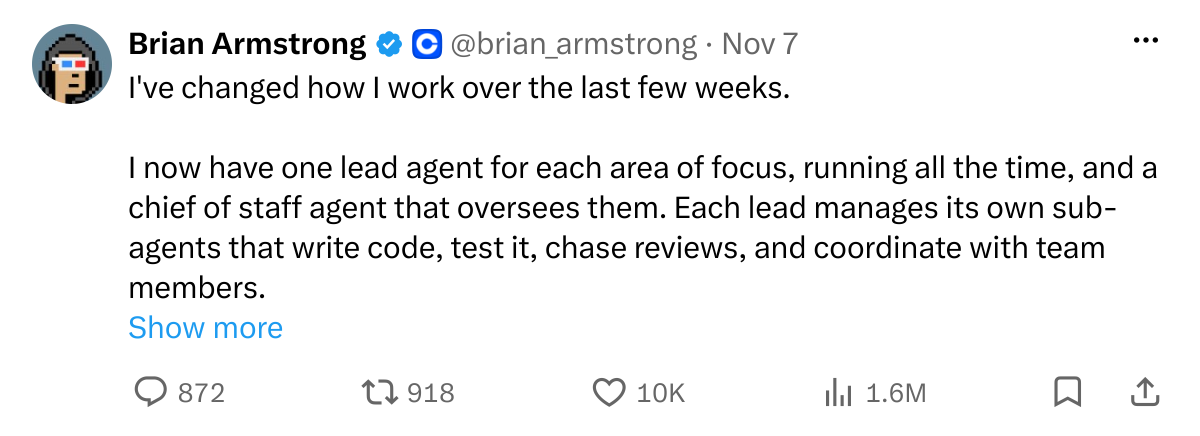
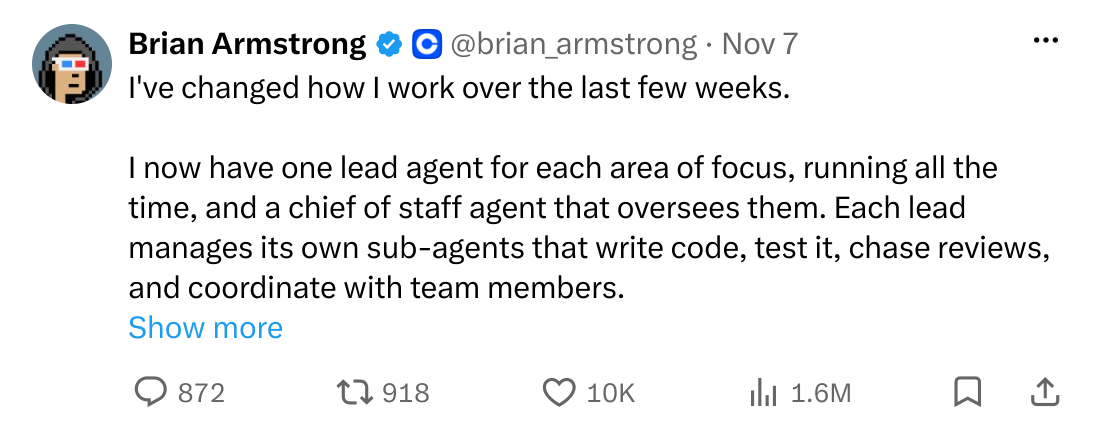
blog: méta-agent, qui sont Brian Armstrong et Chris Tate, tweets cliquables en carte
Une image en lien ([![…](img)](url)) devient une carte de 550 px,
la taille d'un post X intégré.

diff --git a/app/components/Markdown.tsx b/app/components/Markdown.tsx
@@ -39,12 +39,26 @@ function isSafeHref(href: string): boolean {
   return /^(https?:\/\/|mailto:|\/|#)/.test(href);
 }
 
+type HastNode = { type: string; tagName?: string; children?: HastNode[] };
+
+function onlyChild(node?: HastNode): HastNode | null {
+  return node?.children?.length === 1 ? node.children[0] : null;
+}
+
+function isTag(node: HastNode | null, tagName: string): boolean {
+  return node?.type === "element" && node.tagName === tagName;
+}
+
+/** `[![alt](post.png)](https://x.com/…)`: an image that links somewhere. */
+function isLinkedImage(node: HastNode | null): boolean {
+  return isTag(node, "a") && isTag(onlyChild(node ?? undefined), "img");
+}
+
 const components: Components = {
-  // An image on its own line is a figure, not a paragraph.
+  // An image on its own line is a figure, not a paragraph, linked or not.
   p: ({ node, children }) => {
-    const only = node?.children.length === 1 ? node.children[0] : null;
-    if (only?.type === "element" && only.tagName === "img")
-      return <>{children}</>;
+    const only = onlyChild(node);
+    if (isTag(only, "img") || isLinkedImage(only)) return <>{children}</>;
     return <p className="text-base leading-relaxed text-muted">{children}</p>;
   },
   h1: ({ children }) => (
@@ -69,7 +83,20 @@ const components: Components = {
     <ol className="list-decimal space-y-2 pl-6">{children}</ol>
   ),
   li: ({ children }) => <li className="text-base text-muted">{children}</li>,
-  a: ({ href = "", children }) => {
+  a: ({ node, href = "", children }) => {
+    // A linked image is a card, the size of an embedded X post.
+    if (isLinkedImage(node ?? null)) {
+      return (
+        <a
+          href={isSafeHref(href) ? href : "#"}
+          className="mx-auto block max-w-[550px] [&_img]:rounded-xl [&_img]:border [&_img]:border-hair [&_img]:shadow-sm [&_img]:transition-shadow hover:[&_img]:shadow-md"
+          target="_blank"
+          rel="noopener noreferrer"
+        >
+          {children}
+        </a>
+      );
+    }
     const className = "text-blue underline underline-offset-4 hover:text-ink2";
     if (href.startsWith("/")) {
       return (

diff --git a/content/blog/un-meta-agent-pour-piloter-mes-agents-de-code/fr.md b/content/blog/un-meta-agent-pour-piloter-mes-agents-de-code/fr.md
@@ -9,11 +9,11 @@ excerpt: "Avec huit sessions d'agents ouvertes, mon problème n'est pas de les l
 
 Avec l'agentic engineering, j'ai beaucoup de mal à garder en tête tout ce que je fais. J'ai à peu près huit sessions d'agents ouvertes en même temps, chacune dans son worktree, et la charge mentale monte vite : savoir sur quoi je travaille d'un jour sur l'autre, ou simplement après la pause de midi, quand je reprends et que je suis perdu. Le problème, ce n'est pas de lancer des agents, c'est de finir les tâches et de savoir enchaîner. En fait, c'est le focus, et l'orchestration.
 
-Depuis quelque temps, je voyais passer sur Twitter des gens qui ne parlaient plus qu'à un seul agent, pour se simplifier la vie ([Brian Armstrong](https://x.com/brian_armstrong/status/2119112609223827547), [Chris Tate](https://x.com/ctatedev/status/2119251380150087685)).
+Depuis quelque temps, je voyais passer sur Twitter des gens qui ne parlaient plus qu'à un seul agent, pour se simplifier la vie, comme [Brian Armstrong](https://x.com/brian_armstrong), le CEO de Coinbase, ou [Chris Tate](https://x.com/ctatedev), de Vercel Labs.
 
-![Le post de Brian Armstrong sur X : un agent principal par sujet, et un agent chief of staff qui les supervise](tweet-brian-armstrong.png)
+[![Le post de Brian Armstrong sur X : un agent principal par sujet, et un agent chief of staff qui les supervise](tweet-brian-armstrong.png)](https://x.com/brian_armstrong/status/2119112609223827547)
 
-![Le post de Chris Tate sur X : « I only talk to one agent now »](tweet-chris-tate.png)
+[![Le post de Chris Tate sur X : « I only talk to one agent now »](tweet-chris-tate.png)](https://x.com/ctatedev/status/2119251380150087685)
 
 Et puis Orca a lancé ses [bots](https://orca.dev/bots), et c'était un peu le sujet. Orca, c'est l'IDE dans lequel tournent mes agents de code, et un bot, c'est un agent qui y vit en permanence, sur ma machine et avec mon propre Claude Code, avec un nom, une mémoire et des automatisations. J'ai créé le mien le 20 novembre. Il s'appelle Poulpito, c'est un poulpe, il gère tout avec ses tentacules. Censé être « my best friend », c'est plutôt devenu mon chief of staff : c'est le seul agent à qui je parle, et c'est lui qui pilote les autres.
 

diff --git a/content/blog/un-meta-agent-pour-piloter-mes-agents-de-code/en.md b/content/blog/un-meta-agent-pour-piloter-mes-agents-de-code/en.md
@@ -9,11 +9,11 @@ excerpt: "With eight agent sessions open, my problem isn't starting them, it's f
 
 With agentic engineering, I have a hard time keeping track of everything I'm doing. I have about eight agent sessions open at once, each in its own worktree, and the mental load builds up fast: knowing what I'm working on from one day to the next, or just after the lunch break, when I pick things up again and I'm lost. The problem isn't starting agents, it's finishing tasks and knowing what to do next. It's really about focus, and orchestration.
 
-For a while I'd been seeing people on Twitter who only talked to a single agent, to make their life simpler ([Brian Armstrong](https://x.com/brian_armstrong/status/2119112609223827547), [Chris Tate](https://x.com/ctatedev/status/2119251380150087685)).
+For a while I'd been seeing people on Twitter who only talked to a single agent, to make their life simpler, like [Brian Armstrong](https://x.com/brian_armstrong), the CEO of Coinbase, or [Chris Tate](https://x.com/ctatedev), at Vercel Labs.
 
-![Brian Armstrong's post on X: one lead agent per area of focus, and a chief of staff agent that oversees them](tweet-brian-armstrong.png)
+[![Brian Armstrong's post on X: one lead agent per area of focus, and a chief of staff agent that oversees them](tweet-brian-armstrong.png)](https://x.com/brian_armstrong/status/2119112609223827547)
 
-![Chris Tate's post on X: "I only talk to one agent now"](tweet-chris-tate.png)
+[![Chris Tate's post on X: "I only talk to one agent now"](tweet-chris-tate.png)](https://x.com/ctatedev/status/2119251380150087685)
 
 Then Orca launched its [bots](https://orca.dev/bots), and that was pretty much the topic. Orca is the IDE my coding agents run in, and a bot is an agent that lives there permanently, on my machine and with my own Claude Code, with a name, a memory and automations. I created mine on 20 November. It's called Poulpito, it's an octopus, it handles everything with its tentacles. Meant to be "my best friend", it has actually become my chief of staff: it's the only agent I talk to, and it runs the others.
 
